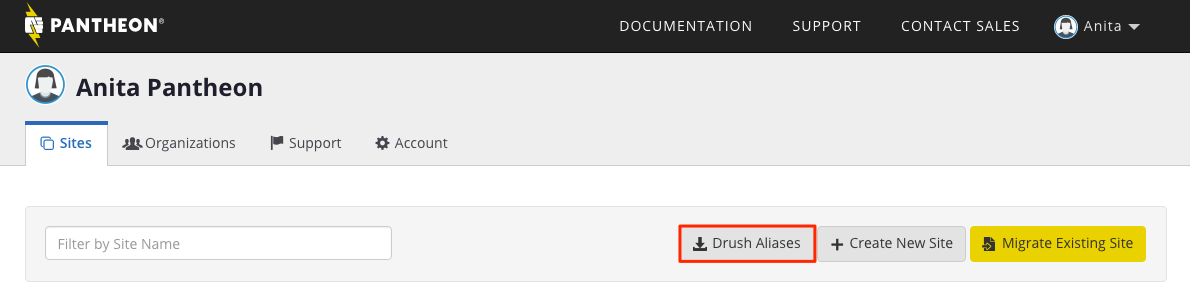
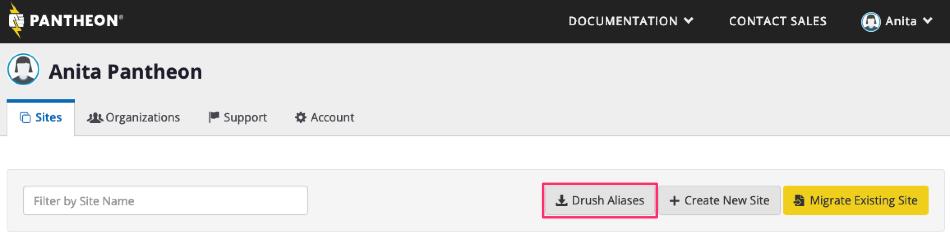
Mass Copy Edits to:
site-owner-faq

relaunch

drush

errors-and-server-responses

hyberdb

server_name-server_port (just formatting)

support screenshot

team-management sandbox - rest needs to be looked at

continuous-integration

diff --git a/source/_docs/team-management.md b/source/_docs/team-management.md
@@ -61,16 +61,10 @@ Site ownership is assigned to the person who creates the site or pays for the si
 ### Change the Site Owner
 
 #### Sandbox Sites
-Within the Team modal of the Site Dashboard, the site owner can click **Make Owner** next to the site team member that should receive ownership of the site. This link is only visible when the Sandbox site does not have a credit card associated with the site. To disassociate a credit card, go to **Settings** and click the Billing tab.
-
-<div class="alert alert-info" role="alert">
-<h4 class="info">Note</h4><p>Only the current site owner has the ability to assign a new owner; site team members will not see this option.</p>
-</div>
-
-![Make Owner](/source/docs/assets/images/dashboard/sandbox-make-owner.png)
+{% include("content/transfer-ownership-billing-steps.html")%}
 
 #### Paid Sites
-To change the owner of a paid site (e.g. Basic, or Performance), you'll need to update the billing information by clicking **Invite a business owner to pay for this site** within in the Settings page of the Site Dashboard. Enter the email address for the new site owner. Once the new owner receives the invitation they will be directed to provide payment information, at which point they will assume ownership of the site.
+To change the owner of a paid site (e.g. Basic, or Performance), you'll need to update the billing information by clicking **Invite a business owner to pay for this site** within the Settings page of the Site Dashboard. Enter the email address for the new site owner. Once the new owner receives the invitation they will be directed to provide payment information, at which point they will assume ownership of the site.
 
 ![Invite a business owner to pay for this site](/source/docs/assets/images/dashboard/payment-form-invite.png)<br />
 Enterprise Organizations can use the same process to assume ownership of a site;  however, Agency Partners do not have the ability to own sites directly.

diff --git a/source/_docs/hyperdb.md b/source/_docs/hyperdb.md
@@ -20,7 +20,7 @@ Keep in mind, HyperDB is a powerful tool with several tuning options based on da
 
 ## Install and Configure HyperDB
 
-Before you begin, an Enterprise Onboarding Manager must change your site service level to "Elite". The platform will automatically configure and manage your master and replica databases.
+Before you begin, a Customer Success Manager (**CSM**) must change your site service level to "Elite". The platform will automatically configure and manage your master and replica databases. [Contact us](https://pantheon.io/contact-us){.external} for learn more about service levels and how a CSM can help.
 
 Download the archive of [HyperDB from the WordPress plugin repository](https://wordpress.org/support/plugin/hyperdb){.external} and move the `db.php` file into the `/wp-content` directory. This is a drop-in plugin and does not require activation at any time.
 
@@ -28,7 +28,7 @@ Next, configure the master/replica databases within `db-config.php`. This file s
 
 When the `db.php` database drop-in is deployed to production, WordPress will begin allocating MySQL database reads and writes based on the configuration details you’ve provided in `db-config.php`.
 
-The following sample configurations can be used in place of the `dp-config.php` file provided within the plugin archive. These examples require no additional edits for sites running on Pantheon. For more advanced options, refer to the `db-config.php` file provided in the HyperDB plguin archive.
+The following sample configurations can be used in place of the `dp-config.php` file provided within the plugin archive. These examples require no additional edits for sites running on Pantheon. For more advanced options, refer to the `db-config.php` file provided in the HyperDB plugin archive.
 
 ### Split Reads Between Master and Replica
 Split reads between the master and the replica, to simply distribute the load between two servers.

diff --git a/source/_docs/support.md b/source/_docs/support.md
@@ -5,8 +5,10 @@ tags: [dashboard]
 categories: []
 ---
 
+![Screenshot of the Support Tab](/source/docs/assets/images/dashboard/support-tab.png)
+
 ## Support Features and Response Times
-Pantheon offers a range of support packages that extend to include all the features required for mission critical sites, such as 24x7x365 emergency on-call, debugging assistance and even bundled professional services with our Diamond Package.
+Pantheon offers a range of support packages that extend to include all the features required for mission critical sites, such as 24x7x365 emergency on-call, debugging assistance and even bundled Professional Services with our Diamond Package.
 
 | Support Package                                           | Silver                                          | Gold                                              | Platinum                                              | Diamond                                           |
 |-----------------------------------------------------------|-------------------------------------------------|---------------------------------------------------|-------------------------------------------------------|---------------------------------------------------|

diff --git a/source/_docs/errors-and-server-responses.md b/source/_docs/errors-and-server-responses.md
@@ -109,7 +109,10 @@ If you are seeing frequent problems with external web services, it's a good idea
 ## Overloaded Workers
 If your PHP workers are overloaded, it's possible that pages will timeout before they are ever even picked up by the back-end. This can happen if you are suddenly hit with a flood of un-cachable/authenticated traffic.
 
-<script src="//gist.github.com/timani/412437aa8c1e5e6b5abe.js"></script>
+```php
+2014/05/15 08:57:21 [error] 31914#0: *13543 connect() to unix:/srv/bindings/0181b7c2caqe34534qw34533453e69cd027b13556df00/run/php-fpm.sock failed (11: Resource temporarily unavailable) while connecting to upstream, client: 127.0.0.1, server: , request: "GET /index.php?q=user HTTP/1.0", upstream: "fastcgi://unix:/srv/bindings/0181b7c2caqe34534qw34533453e69cd027b13556df00/run/php-fpm.sock:", host: "dev-example.gotpantheon.com"
+2014/05/15 08:57:21 [alert] 31914#0: *13546 128 worker_connections are not enough while connecting to upstream, client: unix:ded-fo, server: , request: "GET /index.php?q=user HTTP/1.0", upstream: "http://127.0.0.1:452/index.php?q=user", host: "dev-example.gotpantheon.com"
+```
 
 ### Fix Errors
 

diff --git a/source/_docs/server_name-and-server_port.md b/source/_docs/server_name-and-server_port.md
@@ -9,7 +9,7 @@ Some code relies on `$_SERVER['SERVER_NAME']` and `$_SERVER['SERVER_PORT']` to c
 In general, you don't want your code to rely on this, but some extensions (themes, modules, plugins) give you no choice. In that case, you will need to modify the `$_SERVER` variable in your `settings.php` (Drupal) or `wp-config.php` (WordPress) file to ensure the right values are present.
 
 ## Use HTTP_HOST Instead of SERVER_NAME
-`HTTP_HOST` is generated dynamically based on the current request, while `SERVER_NAME` is static. If the `$_SERVER`variable is set to `'SERVER_NAME'`, the URL generated for a request will be something similar to https://endpoint05ccd237.chios.panth.io instead of the intended https://yourdomain.com.
+`HTTP_HOST` is generated dynamically based on the current request, while `SERVER_NAME` is static. If the `$_SERVER`variable is set to `'SERVER_NAME'`, the URL generated for a request will be something similar to `https://endpoint05ccd237.chios.panth.io` instead of the intended `https://yourdomain.com`.
 
 Adding the following code will pass the correct value when `'SERVER_NAME'` is used:
 ```php

diff --git a/source/_docs/continuous-integration.md b/source/_docs/continuous-integration.md
@@ -5,7 +5,9 @@ tags: [platformintegrations]
 categories: []
 contributors: [ccjjmartin]
 ---
-Continuous Integration (CI) is a method of running automated unit and integration tests to apply quality control. Pantheon doesn't provide or host tools for continuous integration, but many tools and techniques are compatible with Pantheon. If you have a particular use case or technique that you'd like to highlight, let us know by [contacting support](/docs/support).
+Continuous Integration (CI) is a method of running automated unit and integration tests to apply quality control. Pantheon doesn't provide or host tools for continuous integration, but many tools and techniques are compatible with Pantheon. If you have a particular use case or technique that you'd like to highlight, let us know by [contacting support](/docs/support/).
+
+See our [Build Tools](/docs/guides/build-tools/) guide for a more detailed look at a workflow using build tools such as GitHub and CircleCI with Composer for Drupal and WordPress sites.
 
 ## Terminus Command-Line Interface
 

diff --git a/source/_docs/drush.md b/source/_docs/drush.md
@@ -32,17 +32,19 @@ $ terminus aliases
 ```
 
 ### Download Using the Dashboard
+
+![Link to Pantheon Drush Aliases](/source/docs/assets/images/dashboard/drush-aliases.png)
+
 Download your Pantheon site aliases to manually update your local aliases file:
 
-1. From your Pantheon User Dashboard, click **Sites** > **Download all Drush aliases**
-2. Move the generated `pantheon.aliases.drushrc.php` into your local drush root directory (e.g. `$HOME/.drush`).
+1. From your Pantheon User Dashboard, click **Sites** > **Drush Aliases**
+2. Move the generated `pantheon.aliases.drushrc.php` into your local Drush root directory (e.g. `$HOME/.drush`).
 3. Clear Drush cache:
 
  ```
  drush cc drush
  ```
 
-![Link to Pantheon Drush Aliases](/source/docs/assets/images/dashboard/drush-aliases.png)
 If you add a site to your account, you will have to download a new copy of your Drush aliases.
 
 ### List Available Site Aliases

diff --git a/source/_docs/relaunch.md b/source/_docs/relaunch.md
@@ -24,7 +24,9 @@ The permission to manage billing and plans is granted only to the role of **Site
 
 <div class="alert alert-info">
 <h4 class="info">Note</h4>
-<p markdown="1">If you need to assume site and billing ownership, the current Site Owner must [transfer it to you directly](/docs/site-billing#transfer-ownership-and-billing-for-this-site).</p></div>
+<p markdown="1">If you need to assume site and billing ownership, the current Site Owner must [transfer it to you directly](/docs/site-billing#transfer-ownership-and-billing-for-this-site).
+
+In order to retain Preferred Pricing an updated [invitation to pay](/docs/add-client-site/#send-an-invitation-to-pay-to-your-client) must be sent from the Supporting Organization for the new site.</p></div>
 
 ## Relaunch Procedure
 

diff --git a/source/_docs/site-owner-faq.md b/source/_docs/site-owner-faq.md
@@ -72,3 +72,4 @@ Self-serve sites are billable via recurring monthly or [annual](/docs/annual-bil
 - [Billing in the Site Dashboard](/docs/site-billing/)
 - [Account Billing in the User Dashboard](/docs/account-billing/)
 - [Team Management](/docs/team-management/)
+- [Add a Client Site to your Organization Dashboard](/docs/add-client-site/)
